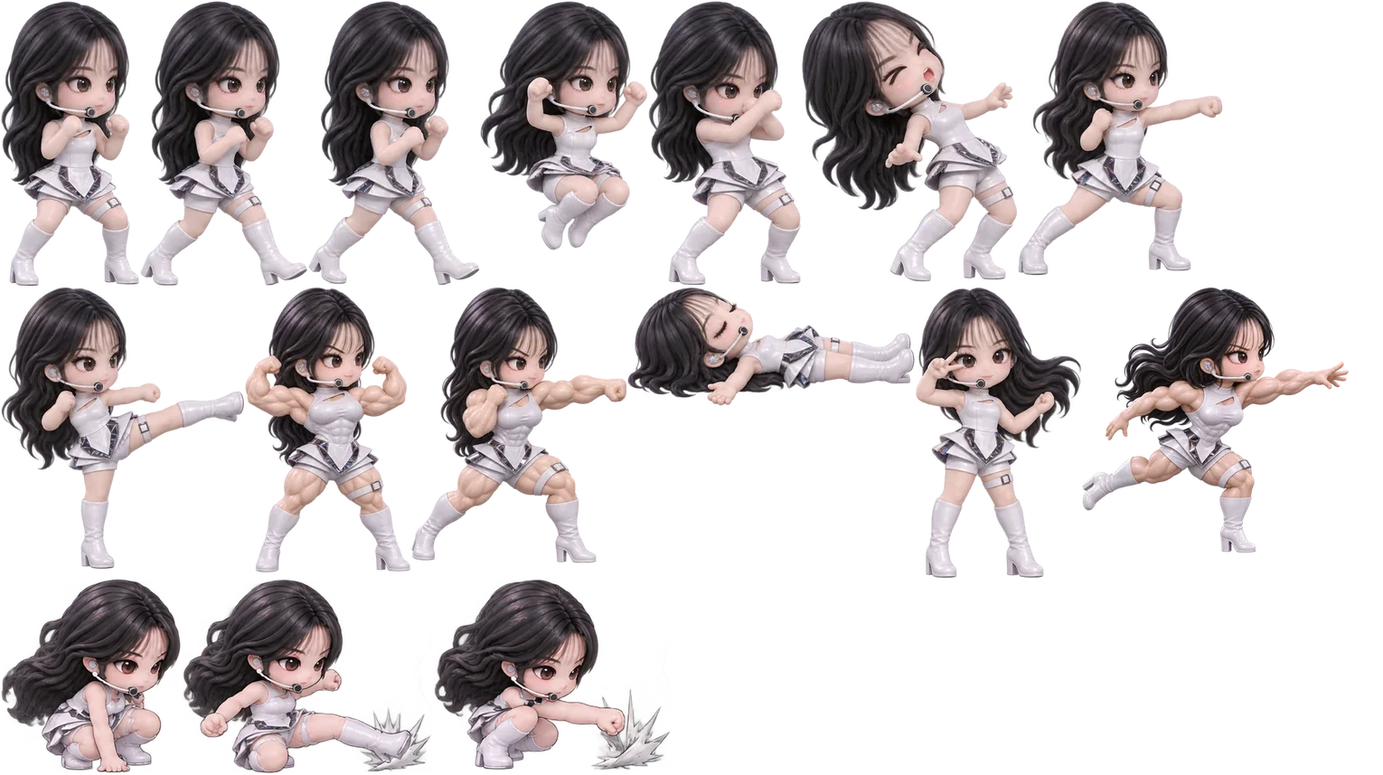
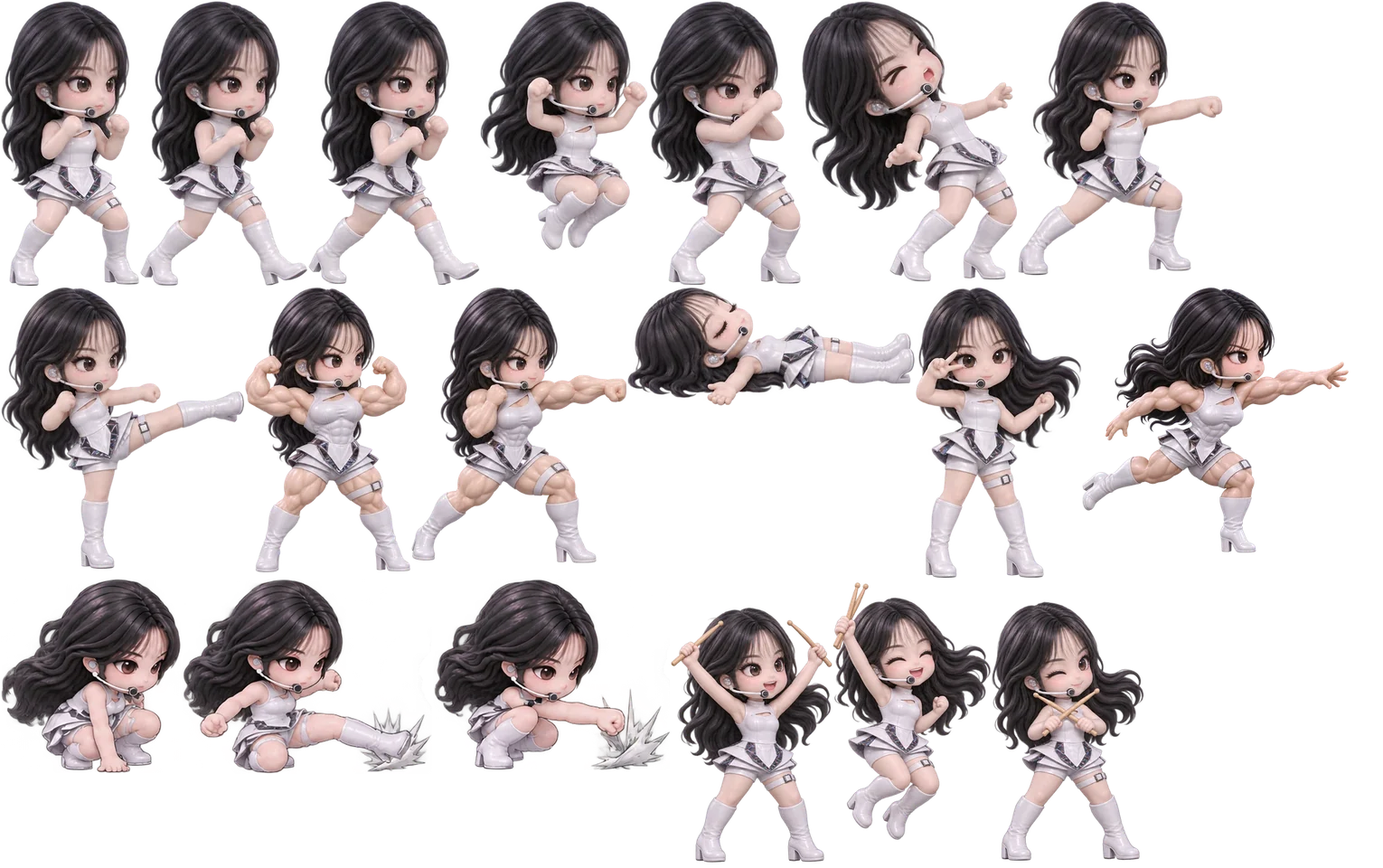
Add a four-frame victory motion for Q and fix the sprite tools

diff --git a/js/assetv.js b/js/assetv.js
@@ -1,1 +1,1 @@
-const ASSET_V={"assets/audio/bgm.mp3":"1aaba7b2","assets/audio/qwer-d-day.mp3":"2830167b","assets/audio/qwer-fake-idol.mp3":"d2b479f6","assets/audio/qwer-ferris-wheel.mp3":"120067c3","assets/audio/qwer-fireworks.mp3":"bdbf5ae5","assets/audio/qwer-goodbye-sorrow.mp3":"504b895b","assets/audio/qwer-my-name-is-malguem.mp3":"eebe45ad","assets/audio/qwer-search-qwer.mp3":"e2c33678","assets/audio/qwer-soda.mp3":"25b22c69","assets/audio/qwer-tb-h.mp3":"cb39dc88","assets/audio/voices/R-select.mp3":"966d0bd6","assets/backgrounds/bg_anime.jpg":"513fafd8","assets/backgrounds/bg_aqua.jpg":"bf8baed5","assets/backgrounds/bg_band.jpg":"7a3b0b11","assets/backgrounds/bg_base.jpg":"2f47fb18","assets/backgrounds/bg_beach.jpg":"e6148974","assets/backgrounds/bg_bridge.jpg":"1050382a","assets/backgrounds/bg_chinatown.jpg":"226bb7e5","assets/backgrounds/bg_classroom.jpg":"2ad7efc6","assets/backgrounds/bg_concert.jpg":"5411182e","assets/backgrounds/bg_donut.jpg":"74cc427a","assets/backgrounds/bg_gym.jpg":"7d28c238","assets/backgrounds/bg_hanok.jpg":"72c9d2e4","assets/backgrounds/bg_park.jpg":"f81a3900","assets/backgrounds/bg_rain.jpg":"e8ae5f37","assets/backgrounds/bg_rooftop.jpg":"b1f264c9","assets/backgrounds/bg_snow.jpg":"9be20873","assets/backgrounds/bg_space.jpg":"665d110d","assets/backgrounds/bg_terminal.jpg":"6dca1744","assets/backgrounds/bg_terminal_arcade.jpg":"3bf31ec8","assets/characters/B.webp":"905224de","assets/characters/E.webp":"a04fc63d","assets/characters/Eb.webp":"0bde667b","assets/characters/Ec.webp":"0d3fb22e","assets/characters/G.webp":"d7f9fd85","assets/characters/Q.webp":"870139b5","assets/characters/Qb.webp":"7a8f53a5","assets/characters/Qc.webp":"e25f9f04","assets/characters/R.webp":"19929a5b","assets/characters/Rb.webp":"1e9810a1","assets/characters/Rc.webp":"9e13b06d","assets/characters/Rd.webp":"e9fda9bb","assets/characters/W.webp":"d74c7d6b","assets/characters/Wb.webp":"505e9592","assets/characters/Wc.webp":"46d4c234","assets/characters/ostrich-r.webp":"f36485a3","assets/emotes/icon_1.webp":"e834c9fc","assets/emotes/icon_13.webp":"ced6be1a","assets/emotes/icon_19.webp":"6eca9b25","assets/emotes/icon_22.webp":"ad3d03f1","assets/emotes/icon_28.webp":"cb4c7512","assets/emotes/icon_33.webp":"57cf40f0","assets/emotes/icon_34.webp":"333682d6","assets/emotes/icon_36.webp":"1de00e10","assets/emotes/icon_38.webp":"52043a2f","assets/emotes/icon_39.webp":"ff33cab9","assets/emotes/icon_41.webp":"3f5fabf0","assets/emotes/icon_45.webp":"addf7b16","assets/emotes/icon_46.webp":"024ab088","assets/emotes/icon_49.webp":"be67b384","assets/emotes/icon_50.webp":"3c880ad8","assets/emotes/icon_57.webp":"7f6e5ae8","assets/emotes/icon_62.webp":"099a9ec7","assets/emotes/icon_65.webp":"d664ad8d","assets/emotes/icon_69.webp":"2050c1ed","assets/emotes/icon_8.webp":"3fe0846f","assets/emotes/icon_87.webp":"905d0d99","assets/emotes/icon_89.webp":"37372a3d","assets/emotes/icon_91.webp":"89b48092","assets/emotes/icon_92.webp":"6fb425ef","assets/emotes/icon_94.webp":"b110da8e","assets/emotes/icon_95.webp":"9a6b4437","assets/emotes/icon_98.webp":"2d258415","assets/emotes/thumb/icon_1.webp":"136837e5","assets/emotes/thumb/icon_13.webp":"5e3867c1","assets/emotes/thumb/icon_19.webp":"d6eb0f03","assets/emotes/thumb/icon_22.webp":"a767fc76","assets/emotes/thumb/icon_28.webp":"86f1c282","assets/emotes/thumb/icon_33.webp":"6408ba02","assets/emotes/thumb/icon_34.webp":"2aa3c54a","assets/emotes/thumb/icon_36.webp":"dc3e9788","assets/emotes/thumb/icon_38.webp":"7f85a09d","assets/emotes/thumb/icon_39.webp":"b1fadb0d","assets/emotes/thumb/icon_41.webp":"7303712b","assets/emotes/thumb/icon_45.webp":"7a1924c5","assets/emotes/thumb/icon_46.webp":"5835c768","assets/emotes/thumb/icon_49.webp":"50c5dac4","assets/emotes/thumb/icon_50.webp":"d23a8087","assets/emotes/thumb/icon_57.webp":"40b0eed8","assets/emotes/thumb/icon_62.webp":"a3d334ca","assets/emotes/thumb/icon_65.webp":"d96399f3","assets/emotes/thumb/icon_69.webp":"75195972","assets/emotes/thumb/icon_8.webp":"c5c82ee8","assets/emotes/thumb/icon_87.webp":"75462682","assets/emotes/thumb/icon_89.webp":"fa2fb05b","assets/emotes/thumb/icon_91.webp":"31208034","assets/emotes/thumb/icon_92.webp":"5de92e6a","assets/emotes/thumb/icon_94.webp":"87c7110b","assets/emotes/thumb/icon_95.webp":"eff04fc8","assets/emotes/thumb/icon_98.webp":"5caa213a","assets/faces/B_face.webp":"b1b04403","assets/faces/E_face.webp":"5a365c76","assets/faces/Eb_face.webp":"52f1f416","assets/faces/Ec_face.webp":"0a22ee57","assets/faces/G_face.webp":"2df10de9","assets/faces/Q_face.webp":"842ad22d","assets/faces/Qb_face.webp":"480c3aff","assets/faces/Qc_face.webp":"30e2ab72","assets/faces/R_face.webp":"646f2d28","assets/faces/Rb_face.webp":"cb5505b5","assets/faces/Rc_face.webp":"025bb463","assets/faces/Rd_face.webp":"f00b88dc","assets/faces/W_face.webp":"c8fbc6b3","assets/faces/Wb_face.webp":"2849e1bc","assets/faces/Wc_face.webp":"2972e762","assets/fonts/BlackHanSans.woff2":"c73265bb","assets/fonts/Bungee.woff2":"8ac97fda","assets/fonts/IBMPlexSansKR-Regular.woff2":"737cb610","assets/fonts/IBMPlexSansKR-SemiBold.woff2":"57c25254","assets/fonts/OFL-BlackHanSans.txt":"380fde59","assets/fonts/OFL-Bungee.txt":"ed00dc15","assets/fonts/OFL-IBMPlexSansKR.txt":"0ae1afdc","assets/fonts/OFL-Pretendard.txt":"18fe4610","assets/fonts/Pretendard-ExtraBold.woff2":"1b077a90","assets/lib/peerjs.min.js":"7e60515a","assets/thumbnails/th_anime.jpg":"b3ed8d6a","assets/thumbnails/th_aqua.jpg":"b6233e26","assets/thumbnails/th_band.jpg":"aa12367e","assets/thumbnails/th_base.jpg":"a0ca34c4","assets/thumbnails/th_beach.jpg":"015c1b5a","assets/thumbnails/th_bridge.jpg":"9602dd89","assets/thumbnails/th_chinatown.jpg":"71309555","assets/thumbnails/th_classroom.jpg":"539fc97d","assets/thumbnails/th_concert.jpg":"b9ed6681","assets/thumbnails/th_donut.jpg":"0606e81c","assets/thumbnails/th_gym.jpg":"4426af79","assets/thumbnails/th_hanok.jpg":"df80f531","assets/thumbnails/th_park.jpg":"cf62f3c3","assets/thumbnails/th_rain.jpg":"515447f1","assets/thumbnails/th_rooftop.jpg":"bfd5d01a","assets/thumbnails/th_snow.jpg":"0159d7c5","assets/thumbnails/th_space.jpg":"5184dfa8","assets/thumbnails/th_terminal.jpg":"62f1e04b","assets/thumbnails/th_terminal_arcade.jpg":"ebf49341","assets/ui/qddup-busan-cover.jpg":"04b05f5f","assets/ui/qddup-busan-share.jpg":"23fca48c","assets/ui/qddup-busan-title.mp4":"1bfd18a7","assets/ui/roster-energy.webp":"add15ffe","assets/ui/roster/B.webp":"7de4b487","assets/ui/roster/E.webp":"940c568d","assets/ui/roster/Eb.webp":"bd00a1c0","assets/ui/roster/Ec.webp":"9044e970","assets/ui/roster/G.webp":"acd26a21","assets/ui/roster/Q.webp":"91b08bca","assets/ui/roster/Qb.webp":"315030af","assets/ui/roster/Qc.webp":"807f094b","assets/ui/roster/R.webp":"3e3bb339","assets/ui/roster/Rb.webp":"536e0533","assets/ui/roster/Rc.webp":"50afe96b","assets/ui/roster/Rd.webp":"08cb5ab8","assets/ui/roster/W.webp":"070725d0","assets/ui/roster/Wb.webp":"c2614728","assets/ui/roster/Wc.webp":"f48d9b9d","assets/ui/title.jpg":"89b0c471","assets/videos/sp_B.mp4":"15b627a9","assets/videos/sp_E2.mp4":"d12e113c","assets/videos/sp_ET.mp4":"803325cf","assets/videos/sp_E_fire.mp4":"370a1644","assets/videos/sp_Eb_fire.mp4":"89f90275","assets/videos/sp_Ec_fire.mp4":"22d94be2","assets/videos/sp_G.mp4":"7a6d975f","assets/videos/sp_GT.mp4":"f78d04ea","assets/videos/sp_Q.mp4":"03ca6ce6","assets/videos/sp_Q2.mp4":"f94778b5","assets/videos/sp_QT.mp4":"b506aa96","assets/videos/sp_Qb.mp4":"4794a599","assets/videos/sp_QbT.mp4":"325666e8","assets/videos/sp_Qc.mp4":"98849dc6","assets/videos/sp_QcT.mp4":"ea9073d1","assets/videos/sp_R.mp4":"5e365d9b","assets/videos/sp_R2.mp4":"4cc11253","assets/videos/sp_RT.mp4":"d017c341","assets/videos/sp_Rb.mp4":"c2c76571","assets/videos/sp_Rc.mp4":"cf1e9842","assets/videos/sp_RcT.mp4":"23feefdc","assets/videos/sp_Rd.mp4":"d3ba4c66","assets/videos/sp_W.mp4":"1b7e4f05","assets/videos/sp_W2.mp4":"16b3aa3b","assets/videos/sp_WT.mp4":"35d74be0","assets/videos/sp_Wb.mp4":"308decd9","assets/videos/sp_WbT.mp4":"88caf26b","assets/videos/sp_Wc.mp4":"b00706bc","assets/videos/sp_WcT.mp4":"f2f383e1"};
+const ASSET_V={"assets/audio/bgm.mp3":"1aaba7b2","assets/audio/qwer-d-day.mp3":"2830167b","assets/audio/qwer-fake-idol.mp3":"d2b479f6","assets/audio/qwer-ferris-wheel.mp3":"120067c3","assets/audio/qwer-fireworks.mp3":"bdbf5ae5","assets/audio/qwer-goodbye-sorrow.mp3":"504b895b","assets/audio/qwer-my-name-is-malguem.mp3":"eebe45ad","assets/audio/qwer-search-qwer.mp3":"e2c33678","assets/audio/qwer-soda.mp3":"25b22c69","assets/audio/qwer-tb-h.mp3":"cb39dc88","assets/audio/voices/R-select.mp3":"966d0bd6","assets/backgrounds/bg_anime.jpg":"513fafd8","assets/backgrounds/bg_aqua.jpg":"bf8baed5","assets/backgrounds/bg_band.jpg":"7a3b0b11","assets/backgrounds/bg_base.jpg":"2f47fb18","assets/backgrounds/bg_beach.jpg":"e6148974","assets/backgrounds/bg_bridge.jpg":"1050382a","assets/backgrounds/bg_chinatown.jpg":"226bb7e5","assets/backgrounds/bg_classroom.jpg":"2ad7efc6","assets/backgrounds/bg_concert.jpg":"5411182e","assets/backgrounds/bg_donut.jpg":"74cc427a","assets/backgrounds/bg_gym.jpg":"7d28c238","assets/backgrounds/bg_hanok.jpg":"72c9d2e4","assets/backgrounds/bg_park.jpg":"f81a3900","assets/backgrounds/bg_rain.jpg":"e8ae5f37","assets/backgrounds/bg_rooftop.jpg":"b1f264c9","assets/backgrounds/bg_snow.jpg":"9be20873","assets/backgrounds/bg_space.jpg":"665d110d","assets/backgrounds/bg_terminal.jpg":"6dca1744","assets/backgrounds/bg_terminal_arcade.jpg":"3bf31ec8","assets/characters/B.webp":"905224de","assets/characters/E.webp":"a04fc63d","assets/characters/Eb.webp":"0bde667b","assets/characters/Ec.webp":"0d3fb22e","assets/characters/G.webp":"d7f9fd85","assets/characters/Q.webp":"b252e39a","assets/characters/Qb.webp":"7a8f53a5","assets/characters/Qc.webp":"e25f9f04","assets/characters/R.webp":"19929a5b","assets/characters/Rb.webp":"1e9810a1","assets/characters/Rc.webp":"9e13b06d","assets/characters/Rd.webp":"e9fda9bb","assets/characters/W.webp":"d74c7d6b","assets/characters/Wb.webp":"505e9592","assets/characters/Wc.webp":"46d4c234","assets/characters/ostrich-r.webp":"f36485a3","assets/emotes/icon_1.webp":"e834c9fc","assets/emotes/icon_13.webp":"ced6be1a","assets/emotes/icon_19.webp":"6eca9b25","assets/emotes/icon_22.webp":"ad3d03f1","assets/emotes/icon_28.webp":"cb4c7512","assets/emotes/icon_33.webp":"57cf40f0","assets/emotes/icon_34.webp":"333682d6","assets/emotes/icon_36.webp":"1de00e10","assets/emotes/icon_38.webp":"52043a2f","assets/emotes/icon_39.webp":"ff33cab9","assets/emotes/icon_41.webp":"3f5fabf0","assets/emotes/icon_45.webp":"addf7b16","assets/emotes/icon_46.webp":"024ab088","assets/emotes/icon_49.webp":"be67b384","assets/emotes/icon_50.webp":"3c880ad8","assets/emotes/icon_57.webp":"7f6e5ae8","assets/emotes/icon_62.webp":"099a9ec7","assets/emotes/icon_65.webp":"d664ad8d","assets/emotes/icon_69.webp":"2050c1ed","assets/emotes/icon_8.webp":"3fe0846f","assets/emotes/icon_87.webp":"905d0d99","assets/emotes/icon_89.webp":"37372a3d","assets/emotes/icon_91.webp":"89b48092","assets/emotes/icon_92.webp":"6fb425ef","assets/emotes/icon_94.webp":"b110da8e","assets/emotes/icon_95.webp":"9a6b4437","assets/emotes/icon_98.webp":"2d258415","assets/emotes/thumb/icon_1.webp":"136837e5","assets/emotes/thumb/icon_13.webp":"5e3867c1","assets/emotes/thumb/icon_19.webp":"d6eb0f03","assets/emotes/thumb/icon_22.webp":"a767fc76","assets/emotes/thumb/icon_28.webp":"86f1c282","assets/emotes/thumb/icon_33.webp":"6408ba02","assets/emotes/thumb/icon_34.webp":"2aa3c54a","assets/emotes/thumb/icon_36.webp":"dc3e9788","assets/emotes/thumb/icon_38.webp":"7f85a09d","assets/emotes/thumb/icon_39.webp":"b1fadb0d","assets/emotes/thumb/icon_41.webp":"7303712b","assets/emotes/thumb/icon_45.webp":"7a1924c5","assets/emotes/thumb/icon_46.webp":"5835c768","assets/emotes/thumb/icon_49.webp":"50c5dac4","assets/emotes/thumb/icon_50.webp":"d23a8087","assets/emotes/thumb/icon_57.webp":"40b0eed8","assets/emotes/thumb/icon_62.webp":"a3d334ca","assets/emotes/thumb/icon_65.webp":"d96399f3","assets/emotes/thumb/icon_69.webp":"75195972","assets/emotes/thumb/icon_8.webp":"c5c82ee8","assets/emotes/thumb/icon_87.webp":"75462682","assets/emotes/thumb/icon_89.webp":"fa2fb05b","assets/emotes/thumb/icon_91.webp":"31208034","assets/emotes/thumb/icon_92.webp":"5de92e6a","assets/emotes/thumb/icon_94.webp":"87c7110b","assets/emotes/thumb/icon_95.webp":"eff04fc8","assets/emotes/thumb/icon_98.webp":"5caa213a","assets/faces/B_face.webp":"b1b04403","assets/faces/E_face.webp":"5a365c76","assets/faces/Eb_face.webp":"52f1f416","assets/faces/Ec_face.webp":"0a22ee57","assets/faces/G_face.webp":"2df10de9","assets/faces/Q_face.webp":"842ad22d","assets/faces/Qb_face.webp":"480c3aff","assets/faces/Qc_face.webp":"30e2ab72","assets/faces/R_face.webp":"646f2d28","assets/faces/Rb_face.webp":"cb5505b5","assets/faces/Rc_face.webp":"025bb463","assets/faces/Rd_face.webp":"f00b88dc","assets/faces/W_face.webp":"c8fbc6b3","assets/faces/Wb_face.webp":"2849e1bc","assets/faces/Wc_face.webp":"2972e762","assets/fonts/BlackHanSans.woff2":"c73265bb","assets/fonts/Bungee.woff2":"8ac97fda","assets/fonts/IBMPlexSansKR-Regular.woff2":"737cb610","assets/fonts/IBMPlexSansKR-SemiBold.woff2":"57c25254","assets/fonts/OFL-BlackHanSans.txt":"380fde59","assets/fonts/OFL-Bungee.txt":"ed00dc15","assets/fonts/OFL-IBMPlexSansKR.txt":"0ae1afdc","assets/fonts/OFL-Pretendard.txt":"18fe4610","assets/fonts/Pretendard-ExtraBold.woff2":"1b077a90","assets/lib/peerjs.min.js":"7e60515a","assets/thumbnails/th_anime.jpg":"b3ed8d6a","assets/thumbnails/th_aqua.jpg":"b6233e26","assets/thumbnails/th_band.jpg":"aa12367e","assets/thumbnails/th_base.jpg":"a0ca34c4","assets/thumbnails/th_beach.jpg":"015c1b5a","assets/thumbnails/th_bridge.jpg":"9602dd89","assets/thumbnails/th_chinatown.jpg":"71309555","assets/thumbnails/th_classroom.jpg":"539fc97d","assets/thumbnails/th_concert.jpg":"b9ed6681","assets/thumbnails/th_donut.jpg":"0606e81c","assets/thumbnails/th_gym.jpg":"4426af79","assets/thumbnails/th_hanok.jpg":"df80f531","assets/thumbnails/th_park.jpg":"cf62f3c3","assets/thumbnails/th_rain.jpg":"515447f1","assets/thumbnails/th_rooftop.jpg":"bfd5d01a","assets/thumbnails/th_snow.jpg":"0159d7c5","assets/thumbnails/th_space.jpg":"5184dfa8","assets/thumbnails/th_terminal.jpg":"62f1e04b","assets/thumbnails/th_terminal_arcade.jpg":"ebf49341","assets/ui/qddup-busan-cover.jpg":"04b05f5f","assets/ui/qddup-busan-share.jpg":"23fca48c","assets/ui/qddup-busan-title.mp4":"1bfd18a7","assets/ui/roster-energy.webp":"add15ffe","assets/ui/roster/B.webp":"7de4b487","assets/ui/roster/E.webp":"940c568d","assets/ui/roster/Eb.webp":"bd00a1c0","assets/ui/roster/Ec.webp":"9044e970","assets/ui/roster/G.webp":"acd26a21","assets/ui/roster/Q.webp":"91b08bca","assets/ui/roster/Qb.webp":"315030af","assets/ui/roster/Qc.webp":"807f094b","assets/ui/roster/R.webp":"3e3bb339","assets/ui/roster/Rb.webp":"536e0533","assets/ui/roster/Rc.webp":"50afe96b","assets/ui/roster/Rd.webp":"08cb5ab8","assets/ui/roster/W.webp":"070725d0","assets/ui/roster/Wb.webp":"c2614728","assets/ui/roster/Wc.webp":"f48d9b9d","assets/ui/title.jpg":"89b0c471","assets/videos/sp_B.mp4":"15b627a9","assets/videos/sp_E2.mp4":"d12e113c","assets/videos/sp_ET.mp4":"803325cf","assets/videos/sp_E_fire.mp4":"370a1644","assets/videos/sp_Eb_fire.mp4":"89f90275","assets/videos/sp_Ec_fire.mp4":"22d94be2","assets/videos/sp_G.mp4":"7a6d975f","assets/videos/sp_GT.mp4":"f78d04ea","assets/videos/sp_Q.mp4":"03ca6ce6","assets/videos/sp_Q2.mp4":"f94778b5","assets/videos/sp_QT.mp4":"b506aa96","assets/videos/sp_Qb.mp4":"4794a599","assets/videos/sp_QbT.mp4":"325666e8","assets/videos/sp_Qc.mp4":"98849dc6","assets/videos/sp_QcT.mp4":"ea9073d1","assets/videos/sp_R.mp4":"5e365d9b","assets/videos/sp_R2.mp4":"4cc11253","assets/videos/sp_RT.mp4":"d017c341","assets/videos/sp_Rb.mp4":"c2c76571","assets/videos/sp_Rc.mp4":"cf1e9842","assets/videos/sp_RcT.mp4":"23feefdc","assets/videos/sp_Rd.mp4":"d3ba4c66","assets/videos/sp_W.mp4":"1b7e4f05","assets/videos/sp_W2.mp4":"16b3aa3b","assets/videos/sp_WT.mp4":"35d74be0","assets/videos/sp_Wb.mp4":"308decd9","assets/videos/sp_WbT.mp4":"88caf26b","assets/videos/sp_Wc.mp4":"b00706bc","assets/videos/sp_WcT.mp4":"f2f383e1"};

diff --git a/js/data.js b/js/data.js
@@ -1,5 +1,5 @@
 'use strict';
-const META={"Q":{"frames":{"idle":[2,2,203,420,107.0],"walk1":[207,2,246,419,122.5],"walk2":[455,2,252,418,125.5],"jump":[709,2,246,367,123.0],"guard":[957,2,224,418,126.0],"hit":[1183,2,317,413,214.5],"punch":[1502,2,301,404,127.0],"kick":[2,424,358,415,141.5],"charge":[362,424,243,420,128.5],"special":[607,424,317,406,136.0],"ko":[926,424,423,174,211.5],"win":[1351,424,244,428,101.0],"special2":[1597,424,392,391,229.0],"crouch":[2,854,265,286,144.2],"ckick":[269,854,368,287,120.6],"cpunch":[639,854,349,282,122.5]}},"W":{"frames":{"idle":[2,2,209,420,105.5],"walk1":[213,2,265,421,132.5],"walk2":[480,2,236,419,117.5],"jump":[718,2,218,362,109.0],"guard":[938,2,239,413,119.0],"hit":[1179,2,285,411,182.0],"punch":[1466,2,304,405,136.0],"kick":[2,425,344,406,118.5],"charge":[348,425,280,462,159.0],"special":[630,425,430,400,144.0],"ko":[1062,425,454,200,227.0],"win":[1518,425,203,428,101.0],"special2":[2,889,371,378,261.0],"crouch":[375,889,220,309,110.5],"cpunch":[597,889,275,306,103.0],"ckick":[874,889,328,306,96.0]}},"E":{"frames":{"idle":[2,2,218,458,112.0],"walk1":[222,2,250,462,124.5],"walk2":[474,2,252,461,125.5],"jump":[728,2,209,378,104.5],"guard":[939,2,244,452,121.5],"hit":[1185,2,338,449,209.0],"punch":[1525,2,322,444,152.0],"kick":[2,466,358,443,117.5],"charge":[362,466,207,513,110.5],"special":[571,466,306,466,153.0],"ko":[879,466,531,186,265.5],"win":[1412,466,206,468,102.5],"special2":[2,981,443,495,194.0],"crouch":[447,981,198,282,107.0],"cpunch":[647,981,255,281,100.0],"ckick":[904,981,304,281,97.0]}},"R":{"frames":{"idle":[2,2,163,372,85.0],"walk1":[167,2,183,373,91.0],"walk2":[352,2,168,376,84.0],"jump":[522,2,184,350,92.0],"guard":[708,2,188,376,99.5],"hit":[898,2,296,353,212.0],"punch":[1196,2,257,359,108.5],"kick":[1455,2,260,361,107.0],"charge":[1717,2,189,383,102.0],"special":[2,387,292,377,100.0],"ko":[296,387,395,158,197.5],"win":[693,387,213,351,83.0],"special2":[908,387,640,559,320.0],"crouch":[1550,387,196,312,100.5],"cpunch":[1748,387,246,312,92.5],"ckick":[2,948,271,310,55.0]}},"G":{"frames":{"idle":[2,2,259,432,129.0],"walk1":[263,2,277,432,138.0],"walk2":[542,2,255,430,129.0],"jump":[799,2,208,374,104.0],"guard":[1009,2,286,423,142.5],"hit":[1297,2,375,417,221.0],"punch":[2,436,387,417,170.0],"kick":[391,436,374,440,118.5],"charge":[767,436,214,432,108.5],"special":[983,436,437,402,165.5],"ko":[1422,436,468,186,234.0],"win":[2,878,215,435,107.0],"crouch":[219,878,227,322,121.0],"cpunch":[448,878,297,322,103.0],"ckick":[747,878,348,320,112.5]}},"B":{"frames":{"idle":[2,2,246,440,122.5],"walk1":[250,2,272,441,135.5],"walk2":[524,2,244,445,120.5],"jump":[770,2,246,396,123.0],"guard":[1018,2,281,428,148.5],"hit":[1301,2,337,436,220.0],"punch":[1640,2,324,424,147.0],"kick":[2,449,349,437,126.0],"charge":[353,449,335,450,198.5],"special":[690,449,397,415,137.0],"ko":[1089,449,450,187,225.0],"win":[1541,449,203,447,106.5],"crouch":[1746,449,202,315,98.5],"cpunch":[2,901,269,313,90.0],"ckick":[273,901,303,312,96.0]}},"Qb":{"frames":{"idle":[2,2,245,525,120.5],"walk1":[249,2,261,528,130.5],"walk2":[512,2,257,527,128.0],"jump":[771,2,262,486,131.0],"guard":[1035,2,271,520,147.0],"hit":[1308,2,420,504,316.0],"punch":[2,532,321,507,133.5],"kick":[325,532,372,513,134.0],"charge":[699,532,241,513,120.0],"special":[942,532,377,510,185.0],"ko":[1321,532,572,222,286.0],"win":[2,1047,224,501,122.5],"crouch":[228,1047,230,352,111.0],"cpunch":[460,1047,253,353,100.0],"ckick":[715,1047,314,353,93.5]}},"Wb":{"frames":{"idle":[2,2,256,500,150.0],"walk1":[260,2,266,505,143.0],"walk2":[528,2,254,505,142.5],"jump":[784,2,270,462,135.0],"guard":[1056,2,281,490,157.0],"hit":[1339,2,382,463,273.0],"punch":[1723,2,302,482,124.5],"kick":[2,509,388,482,173.0],"charge":[392,509,339,479,153.0],"special":[733,509,374,462,217.0],"ko":[1109,509,511,205,255.5],"win":[1622,509,244,463,137.0],"crouch":[2,993,211,366,123.5],"cpunch":[215,993,257,366,118.0],"ckick":[474,993,311,364,106.5]}},"Eb":{"frames":{"idle":[2,2,260,545,139.0],"walk1":[264,2,307,545,153.0],"walk2":[573,2,295,544,147.0],"jump":[870,2,255,439,127.5],"guard":[1127,2,266,538,148.5],"hit":[1395,2,410,539,295.5],"punch":[2,549,368,535,174.5],"kick":[372,549,426,552,140.5],"charge":[800,549,331,552,138.5],"special":[1133,549,436,518,217.5],"ko":[2,1103,664,213,332.0],"win":[668,1103,320,550,181.5],"crouch":[990,1103,233,366,107.0],"cpunch":[1225,1103,259,366,94.0],"ckick":[1486,1103,344,364,98.0]}},"Rb":{"frames":{"idle":[2,2,235,450,117.0],"walk1":[239,2,271,454,135.0],"walk2":[512,2,270,454,137.5],"jump":[784,2,213,407,106.5],"guard":[999,2,258,454,131.5],"hit":[1259,2,338,456,213.0],"punch":[1599,2,317,434,142.0],"kick":[2,460,339,444,87.5],"charge":[343,460,187,444,112.5],"special":[532,460,359,406,153.5],"ko":[893,460,480,195,240.0],"win":[1375,460,203,444,109.0],"crouch":[1580,460,207,322,111.5],"cpunch":[2,906,257,322,102.5],"ckick":[261,906,307,323,91.0]}},"Rc":{"frames":{"idle":[2,2,163,345,83.5],"walk1":[167,2,198,344,98.5],"walk2":[367,2,172,346,87.5],"jump":[541,2,202,316,101.0],"guard":[745,2,195,342,97.0],"hit":[942,2,250,345,177.5],"punch":[1194,2,229,335,96.0],"kick":[1425,2,278,342,113.0],"charge":[1705,2,162,338,84.5],"special":[2,350,181,348,108.5],"ko":[185,350,393,170,196.5],"win":[580,350,173,355,95.5],"crouch":[755,350,162,264,76.5],"cpunch":[919,350,204,264,64.0],"ckick":[1125,350,238,264,70.5]}},"Qc":{"frames":{"idle":[2,2,228,428,114.5],"walk1":[232,2,283,427,141.0],"walk2":[517,2,242,427,124.0],"jump":[761,2,246,377,123.0],"guard":[1009,2,284,415,157.5],"hit":[1295,2,329,418,217.0],"punch":[1626,2,327,413,148.0],"kick":[2,432,391,429,147.0],"charge":[395,432,274,441,147.5],"special":[671,432,411,434,205.0],"ko":[1084,432,474,198,237.0],"win":[1560,432,223,450,111.0],"crouch":[1785,432,212,288,113.0],"cpunch":[2,884,251,288,96.0],"ckick":[255,884,324,288,89.0]}},"Wc":{"frames":{"idle":[2,2,218,440,108.0],"walk1":[222,2,274,439,136.5],"walk2":[498,2,244,441,121.5],"jump":[744,2,226,398,113.0],"guard":[972,2,273,440,136.0],"hit":[1247,2,372,430,243.5],"punch":[1621,2,324,425,141.5],"kick":[2,445,365,430,133.5],"charge":[369,445,316,429,126.0],"special":[687,445,367,415,183.0],"ko":[1056,445,502,205,251.0],"win":[1560,445,240,440,109.5],"crouch":[1802,445,195,282,92.0],"cpunch":[2,887,245,281,77.0],"ckick":[249,887,295,280,81.5]}},"Ec":{"frames":{"idle":[2,2,205,468,101.5],"walk1":[209,2,274,466,136.5],"walk2":[485,2,249,470,124.5],"jump":[736,2,232,403,116.0],"guard":[970,2,232,459,115.5],"hit":[1204,2,298,447,191.0],"punch":[1504,2,354,462,153.5],"kick":[2,474,371,464,104.0],"charge":[375,474,290,473,115.5],"special":[667,474,395,457,181.0],"ko":[1064,474,524,188,262.0],"win":[1590,474,287,477,181.5],"crouch":[2,953,197,264,109.0],"cpunch":[201,953,239,264,94.5],"ckick":[442,953,292,264,84.5]}},"Rd":{"frames":{"idle":[2,2,203,440,101.0],"walk1":[207,2,267,438,133.0],"walk2":[476,2,270,439,134.5],"jump":[748,2,206,387,103.0],"guard":[956,2,239,433,143.5],"hit":[1197,2,325,433,223.0],"punch":[1524,2,295,435,138.0],"kick":[2,444,359,442,112.5],"charge":[363,444,167,443,99.5],"special":[532,444,361,425,136.5],"ko":[895,444,470,170,235.0],"win":[1367,444,206,441,117.5],"crouch":[1575,444,182,288,86.0],"cpunch":[1759,444,232,288,69.5],"ckick":[2,889,300,287,73.5]}}};
+const META={"Q":{"frames":{"idle":[2,2,203,420,107.0],"walk1":[207,2,246,419,122.5],"walk2":[455,2,252,418,125.5],"jump":[709,2,246,367,123.0],"guard":[957,2,224,418,126.0],"hit":[1183,2,317,413,214.5],"punch":[1502,2,301,404,127.0],"kick":[2,424,358,415,141.5],"charge":[362,424,243,420,128.5],"special":[607,424,317,406,136.0],"ko":[926,424,423,174,211.5],"win":[1351,424,244,428,101.0],"special2":[1597,424,392,391,229.0],"crouch":[2,854,265,286,144.2],"ckick":[269,854,368,287,120.6],"cpunch":[639,854,349,282,122.5],"win1":[990,854,237,424,119.5],"win2":[1229,854,232,424,87.5],"win3":[1463,854,224,421,95.5]}},"W":{"frames":{"idle":[2,2,209,420,105.5],"walk1":[213,2,265,421,132.5],"walk2":[480,2,236,419,117.5],"jump":[718,2,218,362,109.0],"guard":[938,2,239,413,119.0],"hit":[1179,2,285,411,182.0],"punch":[1466,2,304,405,136.0],"kick":[2,425,344,406,118.5],"charge":[348,425,280,462,159.0],"special":[630,425,430,400,144.0],"ko":[1062,425,454,200,227.0],"win":[1518,425,203,428,101.0],"special2":[2,889,371,378,261.0],"crouch":[375,889,220,309,110.5],"cpunch":[597,889,275,306,103.0],"ckick":[874,889,328,306,96.0]}},"E":{"frames":{"idle":[2,2,218,458,112.0],"walk1":[222,2,250,462,124.5],"walk2":[474,2,252,461,125.5],"jump":[728,2,209,378,104.5],"guard":[939,2,244,452,121.5],"hit":[1185,2,338,449,209.0],"punch":[1525,2,322,444,152.0],"kick":[2,466,358,443,117.5],"charge":[362,466,207,513,110.5],"special":[571,466,306,466,153.0],"ko":[879,466,531,186,265.5],"win":[1412,466,206,468,102.5],"special2":[2,981,443,495,194.0],"crouch":[447,981,198,282,107.0],"cpunch":[647,981,255,281,100.0],"ckick":[904,981,304,281,97.0]}},"R":{"frames":{"idle":[2,2,163,372,85.0],"walk1":[167,2,183,373,91.0],"walk2":[352,2,168,376,84.0],"jump":[522,2,184,350,92.0],"guard":[708,2,188,376,99.5],"hit":[898,2,296,353,212.0],"punch":[1196,2,257,359,108.5],"kick":[1455,2,260,361,107.0],"charge":[1717,2,189,383,102.0],"special":[2,387,292,377,100.0],"ko":[296,387,395,158,197.5],"win":[693,387,213,351,83.0],"special2":[908,387,640,559,320.0],"crouch":[1550,387,196,312,100.5],"cpunch":[1748,387,246,312,92.5],"ckick":[2,948,271,310,55.0]}},"G":{"frames":{"idle":[2,2,259,432,129.0],"walk1":[263,2,277,432,138.0],"walk2":[542,2,255,430,129.0],"jump":[799,2,208,374,104.0],"guard":[1009,2,286,423,142.5],"hit":[1297,2,375,417,221.0],"punch":[2,436,387,417,170.0],"kick":[391,436,374,440,118.5],"charge":[767,436,214,432,108.5],"special":[983,436,437,402,165.5],"ko":[1422,436,468,186,234.0],"win":[2,878,215,435,107.0],"crouch":[219,878,227,322,121.0],"cpunch":[448,878,297,322,103.0],"ckick":[747,878,348,320,112.5]}},"B":{"frames":{"idle":[2,2,246,440,122.5],"walk1":[250,2,272,441,135.5],"walk2":[524,2,244,445,120.5],"jump":[770,2,246,396,123.0],"guard":[1018,2,281,428,148.5],"hit":[1301,2,337,436,220.0],"punch":[1640,2,324,424,147.0],"kick":[2,449,349,437,126.0],"charge":[353,449,335,450,198.5],"special":[690,449,397,415,137.0],"ko":[1089,449,450,187,225.0],"win":[1541,449,203,447,106.5],"crouch":[1746,449,202,315,98.5],"cpunch":[2,901,269,313,90.0],"ckick":[273,901,303,312,96.0]}},"Qb":{"frames":{"idle":[2,2,245,525,120.5],"walk1":[249,2,261,528,130.5],"walk2":[512,2,257,527,128.0],"jump":[771,2,262,486,131.0],"guard":[1035,2,271,520,147.0],"hit":[1308,2,420,504,316.0],"punch":[2,532,321,507,133.5],"kick":[325,532,372,513,134.0],"charge":[699,532,241,513,120.0],"special":[942,532,377,510,185.0],"ko":[1321,532,572,222,286.0],"win":[2,1047,224,501,122.5],"crouch":[228,1047,230,352,111.0],"cpunch":[460,1047,253,353,100.0],"ckick":[715,1047,314,353,93.5]}},"Wb":{"frames":{"idle":[2,2,256,500,150.0],"walk1":[260,2,266,505,143.0],"walk2":[528,2,254,505,142.5],"jump":[784,2,270,462,135.0],"guard":[1056,2,281,490,157.0],"hit":[1339,2,382,463,273.0],"punch":[1723,2,302,482,124.5],"kick":[2,509,388,482,173.0],"charge":[392,509,339,479,153.0],"special":[733,509,374,462,217.0],"ko":[1109,509,511,205,255.5],"win":[1622,509,244,463,137.0],"crouch":[2,993,211,366,123.5],"cpunch":[215,993,257,366,118.0],"ckick":[474,993,311,364,106.5]}},"Eb":{"frames":{"idle":[2,2,260,545,139.0],"walk1":[264,2,307,545,153.0],"walk2":[573,2,295,544,147.0],"jump":[870,2,255,439,127.5],"guard":[1127,2,266,538,148.5],"hit":[1395,2,410,539,295.5],"punch":[2,549,368,535,174.5],"kick":[372,549,426,552,140.5],"charge":[800,549,331,552,138.5],"special":[1133,549,436,518,217.5],"ko":[2,1103,664,213,332.0],"win":[668,1103,320,550,181.5],"crouch":[990,1103,233,366,107.0],"cpunch":[1225,1103,259,366,94.0],"ckick":[1486,1103,344,364,98.0]}},"Rb":{"frames":{"idle":[2,2,235,450,117.0],"walk1":[239,2,271,454,135.0],"walk2":[512,2,270,454,137.5],"jump":[784,2,213,407,106.5],"guard":[999,2,258,454,131.5],"hit":[1259,2,338,456,213.0],"punch":[1599,2,317,434,142.0],"kick":[2,460,339,444,87.5],"charge":[343,460,187,444,112.5],"special":[532,460,359,406,153.5],"ko":[893,460,480,195,240.0],"win":[1375,460,203,444,109.0],"crouch":[1580,460,207,322,111.5],"cpunch":[2,906,257,322,102.5],"ckick":[261,906,307,323,91.0]}},"Rc":{"frames":{"idle":[2,2,163,345,83.5],"walk1":[167,2,198,344,98.5],"walk2":[367,2,172,346,87.5],"jump":[541,2,202,316,101.0],"guard":[745,2,195,342,97.0],"hit":[942,2,250,345,177.5],"punch":[1194,2,229,335,96.0],"kick":[1425,2,278,342,113.0],"charge":[1705,2,162,338,84.5],"special":[2,350,181,348,108.5],"ko":[185,350,393,170,196.5],"win":[580,350,173,355,95.5],"crouch":[755,350,162,264,76.5],"cpunch":[919,350,204,264,64.0],"ckick":[1125,350,238,264,70.5]}},"Qc":{"frames":{"idle":[2,2,228,428,114.5],"walk1":[232,2,283,427,141.0],"walk2":[517,2,242,427,124.0],"jump":[761,2,246,377,123.0],"guard":[1009,2,284,415,157.5],"hit":[1295,2,329,418,217.0],"punch":[1626,2,327,413,148.0],"kick":[2,432,391,429,147.0],"charge":[395,432,274,441,147.5],"special":[671,432,411,434,205.0],"ko":[1084,432,474,198,237.0],"win":[1560,432,223,450,111.0],"crouch":[1785,432,212,288,113.0],"cpunch":[2,884,251,288,96.0],"ckick":[255,884,324,288,89.0]}},"Wc":{"frames":{"idle":[2,2,218,440,108.0],"walk1":[222,2,274,439,136.5],"walk2":[498,2,244,441,121.5],"jump":[744,2,226,398,113.0],"guard":[972,2,273,440,136.0],"hit":[1247,2,372,430,243.5],"punch":[1621,2,324,425,141.5],"kick":[2,445,365,430,133.5],"charge":[369,445,316,429,126.0],"special":[687,445,367,415,183.0],"ko":[1056,445,502,205,251.0],"win":[1560,445,240,440,109.5],"crouch":[1802,445,195,282,92.0],"cpunch":[2,887,245,281,77.0],"ckick":[249,887,295,280,81.5]}},"Ec":{"frames":{"idle":[2,2,205,468,101.5],"walk1":[209,2,274,466,136.5],"walk2":[485,2,249,470,124.5],"jump":[736,2,232,403,116.0],"guard":[970,2,232,459,115.5],"hit":[1204,2,298,447,191.0],"punch":[1504,2,354,462,153.5],"kick":[2,474,371,464,104.0],"charge":[375,474,290,473,115.5],"special":[667,474,395,457,181.0],"ko":[1064,474,524,188,262.0],"win":[1590,474,287,477,181.5],"crouch":[2,953,197,264,109.0],"cpunch":[201,953,239,264,94.5],"ckick":[442,953,292,264,84.5]}},"Rd":{"frames":{"idle":[2,2,203,440,101.0],"walk1":[207,2,267,438,133.0],"walk2":[476,2,270,439,134.5],"jump":[748,2,206,387,103.0],"guard":[956,2,239,433,143.5],"hit":[1197,2,325,433,223.0],"punch":[1524,2,295,435,138.0],"kick":[2,444,359,442,112.5],"charge":[363,444,167,443,99.5],"special":[532,444,361,425,136.5],"ko":[895,444,470,170,235.0],"win":[1367,444,206,441,117.5],"crouch":[1575,444,182,288,86.0],"cpunch":[1759,444,232,288,69.5],"ckick":[2,889,300,287,73.5]}}};
 const CH={
  Q:{name:'Q',col:'#b7a2ff',hp:98,speed:278,jump:825,pd:9,kd:14,reach:8,timing:1.07,guard:1,special:1.03,role:'강타 복서',tradeoff:'펀치와 킥이 강해요. 공격이 빗나가면 빈틈이 커요.'},
  W:{name:'W',col:'#ff6b8e',hp:104,speed:325,jump:795,pd:6,kd:11,reach:25,timing:0.83,guard:0.8,special:1.03,role:'민첩한 중거리 견제',tradeoff:'빠르게 거리를 바꾸며 견제해요. 펀치 피해는 낮아요.'},

diff --git a/index.html b/index.html
@@ -117,8 +117,8 @@
 </section>
 <div id="load"><div id="loadT">LOADING</div><div class="gauge"><i id="loadFill"></i></div><div id="loadPct">0%</div></div>
 
-<script src="js/assetv.js?v=add3cf93"></script>
-<script src="js/data.js?v=cc93f0b9"></script>
+<script src="js/assetv.js?v=4b3fae19"></script>
+<script src="js/data.js?v=204cffe7"></script>
 <script src="js/audio.js?v=8b974028"></script>
 <script src="js/screens.js?v=5b26946d"></script>
 <script src="js/online.js?v=f758bf1d"></script>
@@ -131,7 +131,7 @@
 <script src="js/fight.js?v=d131050e"></script>
 <script src="js/ai.js?v=bcbada43"></script>
 <script src="js/update.js?v=2ef791e0"></script>
-<script src="js/render.js?v=e209bc46"></script>
+<script src="js/render.js?v=44a0a4a2"></script>
 <script src="js/main.js?v=d8e48aae"></script>
 </body>
 </html>

diff --git a/js/render.js b/js/render.js
@@ -6,6 +6,7 @@ function frameOf(f){
   if(s==='jump')return f.airAtk&&f.atkT<.4?'kick':'jump';
   if(s==='punch')return f.t<.05?'idle':'punch';
   if(s==='kick')return f.t<.08?'idle':'kick';
+  if(s==='win')return META[f.ch]?.frames?.win1?(f.t<.3?'win1':f.t<.62?'win2':f.t<1?'win3':'win'):'win';
   if(s==='throw')return f.t<R_THROW.startup?'charge':f.t<.30?'special':'idle';
   if(s==='ko'||s==='kd')return f.down?'ko':'hit';
   if(s==='rec')return'idle';

diff --git a/server/cloudflare/slice_motion.py b/server/cloudflare/slice_motion.py
@@ -1,0 +1,59 @@
+import json, os, sys
+from PIL import Image
+from slice_crouch import ART, ALPHA_CUT, clean, columns, foot_x
+
+
+def split(sheet, count):
+    cols = columns(sheet.getchannel('A'))
+    runs, start = [], None
+    for x, n in enumerate(cols + [0]):
+        if n and start is None:
+            start = x
+        elif not n and start is not None:
+            runs.append([start, x])
+            start = None
+    runs = [r for r in runs if r[1] - r[0] > sheet.width * .02]
+    while len(runs) > count:
+        gaps = [runs[i + 1][0] - runs[i][1] for i in range(len(runs) - 1)]
+        i = gaps.index(min(gaps))
+        runs[i:i + 2] = [[runs[i][0], runs[i + 1][1]]]
+    if len(runs) != count:
+        raise SystemExit(f'expected {count} poses, found {len(runs)}: {runs}')
+    return [sheet.crop((a, 0, b, sheet.height)) for a, b in runs]
+
+
+def head_width(im, top):
+    alpha = im.getchannel('A')
+    w, h = alpha.size
+    px = alpha.load()
+    return max(sum(1 for x in range(w) if px[x, y] > ALPHA_CUT) for y in range(int(h * top)))
+
+
+def main(ch, sheet_path, names, scale_arg):
+    sheet = Image.open(sheet_path).convert('RGBA')
+    full = sheet.getbbox()
+    poses = split(sheet.crop((0, full[1], sheet.width, full[3])), len(names))
+    boxes = [p.getbbox() for p in poses]
+    base = max(b[3] for b in boxes)
+    folder = os.path.join(ART, ch)
+    idle = Image.open(os.path.join(folder, 'idle.png')).convert('RGBA')
+    if scale_arg == 'auto':
+        firsts = [clean(p) for p in poses]
+        scale = head_width(idle, .35) / max(head_width(p, .35) for p in firsts)
+    else:
+        scale = float(scale_arg)
+    anchors_path = os.path.join(folder, 'anchors.json')
+    anchors = json.load(open(anchors_path, encoding='utf-8'))
+    for name, pose, box in zip(names, poses, boxes):
+        cut = pose.crop((box[0], box[1], box[2], base))
+        r, g, b, a = cut.split()
+        cut = Image.merge('RGBA', (r, g, b, a.point(lambda v: 0 if v < ALPHA_CUT else v)))
+        small = cut.resize((round(cut.width * scale), round(cut.height * scale)), Image.LANCZOS)
+        small.save(os.path.join(folder, name + '.png'))
+        anchors[name] = round(foot_x(small), 1)
+        print(ch, name, small.size, 'anchor', anchors[name], 'scale', round(scale, 3))
+    json.dump(anchors, open(anchors_path, 'w', encoding='utf-8', newline='\n'), indent=1)
+
+
+if __name__ == '__main__':
+    main(sys.argv[1], sys.argv[2], sys.argv[3].split(','), sys.argv[4] if len(sys.argv) > 4 else 'auto')

diff --git a/server/cloudflare/pack.py b/server/cloudflare/pack.py
@@ -43,16 +43,13 @@ def pack(ch):
 
 
 def write_meta(updates):
-    src = open(DATA, encoding='utf-8', newline='').read().replace('
-', '
-')
+    src = open(DATA, encoding='utf-8', newline='').read().replace('\r\n', '\n')
     m = re.search(r'const META=(\{.*?\});\n', src, re.S)
     meta = json.loads(m.group(1))
     for ch, frames in updates.items():
         meta.setdefault(ch, {})['frames'] = frames
     src = src[:m.start(1)] + json.dumps(meta, separators=(',', ':'), ensure_ascii=False) + src[m.end(1):]
-    open(DATA, 'w', encoding='utf-8', newline='
-').write(src)
+    open(DATA, 'w', encoding='utf-8', newline='\n').write(src)
 
 
 def main():
@@ -67,8 +64,7 @@ def main():
         print('packed', ch, len(updates[ch]), 'frames', os.path.getsize(os.path.join(OUT, ch + '.webp')) // 1024, 'KB')
     if updates:
         write_meta(updates)
-        json.dump(state, open(STATE, 'w', newline='
-'), indent=1)
+        json.dump(state, open(STATE, 'w', newline='\n'), indent=1)
     else:
         print('sheets up to date')
 

diff --git a/server/cloudflare/slice_crouch.py b/server/cloudflare/slice_crouch.py
@@ -60,8 +60,7 @@ def main(ch, sheet_path, crouch_height):
         small.save(os.path.join(folder, name + '.png'))
         anchors[name] = round(foot_x(small) + OFFSET[name], 1)
         print(ch, name, small.size, 'anchor', anchors[name])
-    json.dump(anchors, open(anchors_path, 'w', encoding='utf-8', newline='
-'), indent=1)
+    json.dump(anchors, open(anchors_path, 'w', encoding='utf-8', newline='\n'), indent=1)
 
 
 if __name__ == '__main__':

diff --git a/TODO.md b/TODO.md
@@ -2,7 +2,7 @@
 
 ## 남은 일
 - 정식 전환: 기존 랭킹을 한 번 더 옮기고(`server/cloudflare/import-legacy.mjs`), 게임 파일을 GitHub Pages(`luckingx2.github.io/qddup-fight`)에 올리기
-- 승리 모션: 라운드 승리 때 캐릭터별 동작 2~3장, 최종 승리 때 승리 애니메이션(영상)은 시범부터
+- 승리 모션: Q 시범 완료. 나머지 14명의 `win1`~`win3` 그림 만들기. 최종 승리 때 승리 애니메이션(영상)은 시범부터
 - 모바일 화면: 새 캐릭터 선택 화면의 세로·가로 배치 점검
 - 추가된 배경음악 6곡을 96kbps로 줄이기
 - 끊김 판정을 남은 체력 숫자가 아니라 최대 체력 대비 비율로 바꾸기 (캐릭터마다 최대 체력이 다름)
@@ -66,3 +66,9 @@
 **도구**
 - `pack.py`: 저장소 구조(루트의 `art/`, `assets/`, `js/`)에 맞게 경로 수정, 줄바꿈 유지
 - `stamp.py`: `css/` 폴더의 모든 CSS에 버전 표시
+
+**승리 모션 (Q 시범)**
+- `art/characters/Q/`에 `win1.png`(드럼스틱 돌리기), `win2.png`(점프), `win3.png`(스틱 교차) 추가, Q 시트 다시 묶음
+- `render.js`: 시트에 `win1`이 있는 캐릭터는 승리 때 `win1` → `win2` → `win3` → `win` 순서로 재생. 없는 캐릭터는 기존처럼 `win` 한 장
+- `slice_motion.py`: 여러 자세가 든 시트를 동작별 PNG로 자르는 도구 추가
+- `pack.py`, `slice_crouch.py`: 줄바꿈 문자열이 깨져 실행되지 않던 문제 수정
